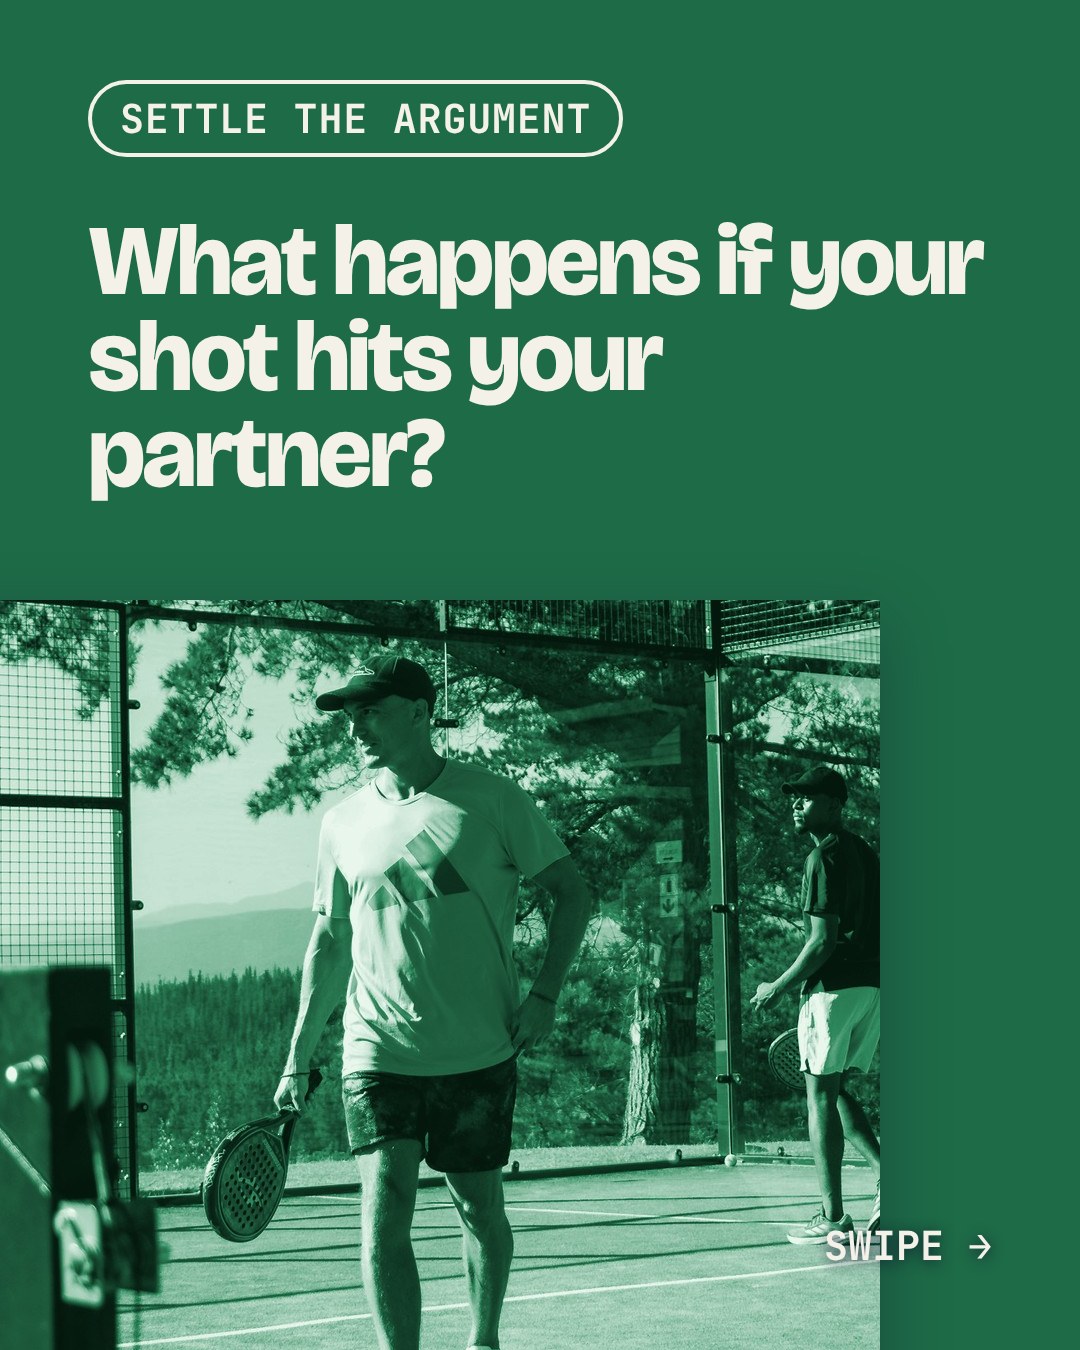
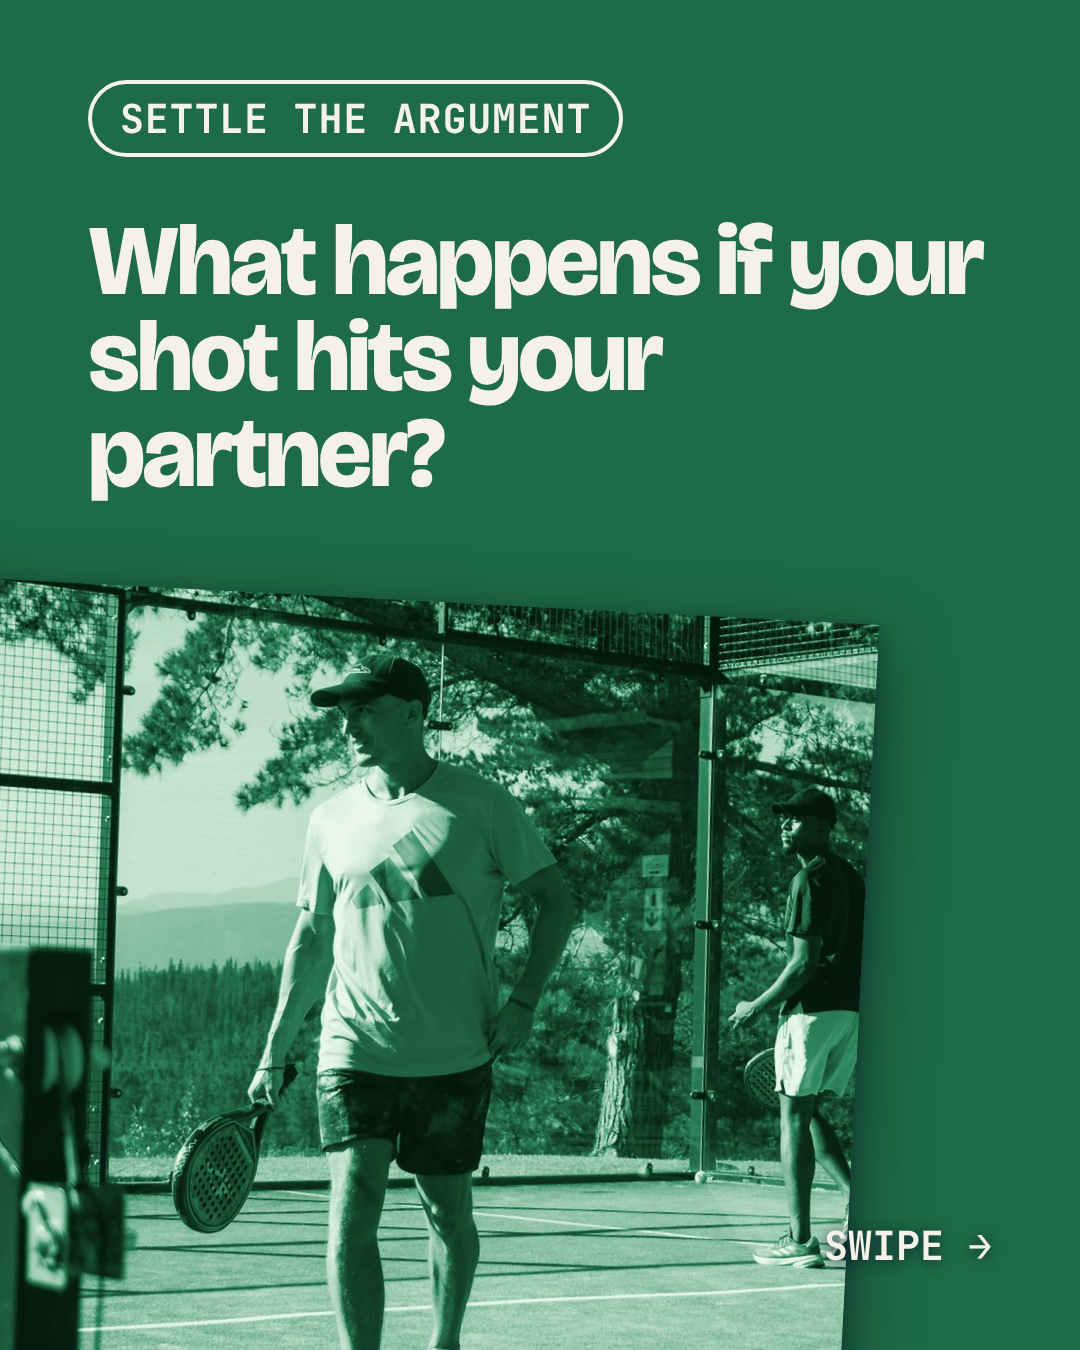
Templates: scene on slide 1 instead of big ?, cord drawing, photos always tilted with shadow
Claude-Session: https://claude.ai/code/session_01QkVtpd5pUHv7AHrWCFBuCg

Changed region(s): [[0.0, 0.4044, 0.825, 1.0], [0.6417, 0.9956, 0.7028, 1.0]]

diff --git a/engine/series.py b/engine/series.py
@@ -306,7 +306,9 @@ def cover(post, s, S, q, fg, hl, top, yellow):
         big = _bleed(mark, 700, 560, 760, 760, "Big question mark")
         return big + top + head(q, 150, fg, 72, 0.92, "position:relative") + '<div style="margin-top:auto"></div>' + swipe(fg)
     if kind == "scene":
-        sc = next(x for x in post["slides"] if x["type"] == "scene")["scene"]
+        # since 31 Oct: the situation drawing sits on slide 1 (s["scene"]) and the separate scene slide is dropped;
+        # the situation sentence moves onto the claim slide as "context"
+        sc = s.get("scene") or next(x for x in post["slides"] if x["type"] == "scene")["scene"]
         svg = scene_svg(sc, S).replace('width="904" height="720"', 'width="904" height="640"')
         return top + head(q, 104, fg) + f'<div style="margin-top:auto">{svg}</div>' + swipe(fg)
     if kind == "versus":
@@ -320,7 +322,7 @@ def cover(post, s, S, q, fg, hl, top, yellow):
         return _bleed(r, 0, 0, 1080, 1350, "Close-up line drawing of a padel racket") + top + \
             head(q, 120, fg, 56, 0.96, "position:relative;max-width:820px") + '<div style="margin-top:auto"></div>' + swipe(fg)
     if kind == "drawing":
-        f = next(x for x in post["slides"] if x["type"] == "fact")
+        f = s if s.get("drawing") else next(x for x in post["slides"] if x["type"] == "fact")
         return top + head(q, 104, fg) + f'<div style="margin-top:auto">{gear_drawing(f["drawing"], f.get("labels", {}))}</div>' + swipe(fg)
     if kind == "digits":
         d = s.get("digits", "?,???")
@@ -375,11 +377,12 @@ def photo_cover(post, s, S, q, fg, top):
     photo_tilt (degrees, e.g. -3)."""
     L, T, W, H = PLACE[s.get("photo_place", "right")]
     f = _photo_file(s["photo"], post["series"], W, H, tuple(s.get("photo_focus", [0.5, 0.5])), s.get("photo_zoom", 1))
-    tilt = s.get("photo_tilt", 0)
+    # always slightly tilted (31 Oct): default by placement, photo_tilt overrides
+    tilt = s.get("photo_tilt", {"right": -3, "left": 3, "wide": -2}[s.get("photo_place", "right")])
     img = (f'<div style="position:absolute;left:0;top:0;width:1080px;height:1350px;overflow:hidden">'
            f'<div style="position:absolute;left:{L}px;top:{T}px;width:{W}px;height:{H}px;'
            f'background:url(\'file://{f}\') center/cover;transform:rotate({tilt}deg);transform-origin:50% 0;'
-           f'box-shadow:0 24px 60px rgba(14,22,48,.35)"></div></div>')
+           f'box-shadow:0 28px 70px rgba(8,12,28,.55),0 6px 18px rgba(8,12,28,.35)"></div></div>')
     sw = swipe(C["paper"])
     return (img + '<div style="position:relative;display:flex;flex-direction:column;flex:1">' + top
             + head(q, 100, fg) + '<div style="margin-top:auto"></div>'
@@ -456,7 +459,8 @@ def build(post, i):
         # so FAIR / FAULT on the last slide always judges this exact sentence
         # no buttons (31 Oct): the statement big and centred, "Fair or fault?" as the clear question below it
         ask = C["ball"] if not yellow else C["court"]
-        body = (top + head(fmt(s["text"], hl), 132, fg, 0, 1.0, "margin-top:auto") +
+        ctx = para(fmt(s["context"], hl), 60, C["glass"] if not yellow else C["night"], 0).replace("margin:0px 0 0", "margin:auto 0 0") if s.get("context") else ""
+        body = (top + ctx + head(fmt(s["text"], hl), 132 if not ctx else 120, fg, 0 if not ctx else 40, 1.0, "" if ctx else "margin-top:auto") +
                 f'<div style="margin-top:56px;height:8px;width:160px;border-radius:999px;background:{ask}"></div>' +
                 head("Fair or fault?", 150, ask, 48, 0.9, "margin-bottom:auto") + swipe(fg))
     elif t == "guess":
